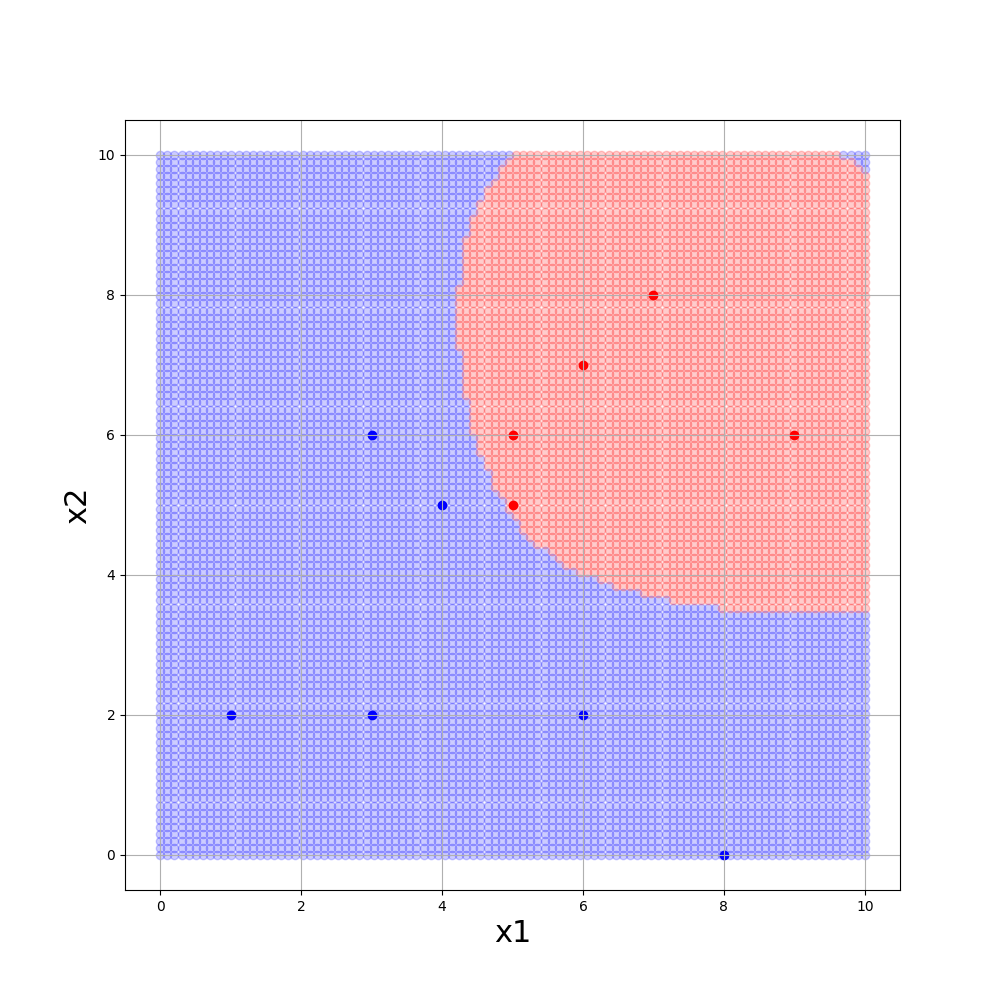
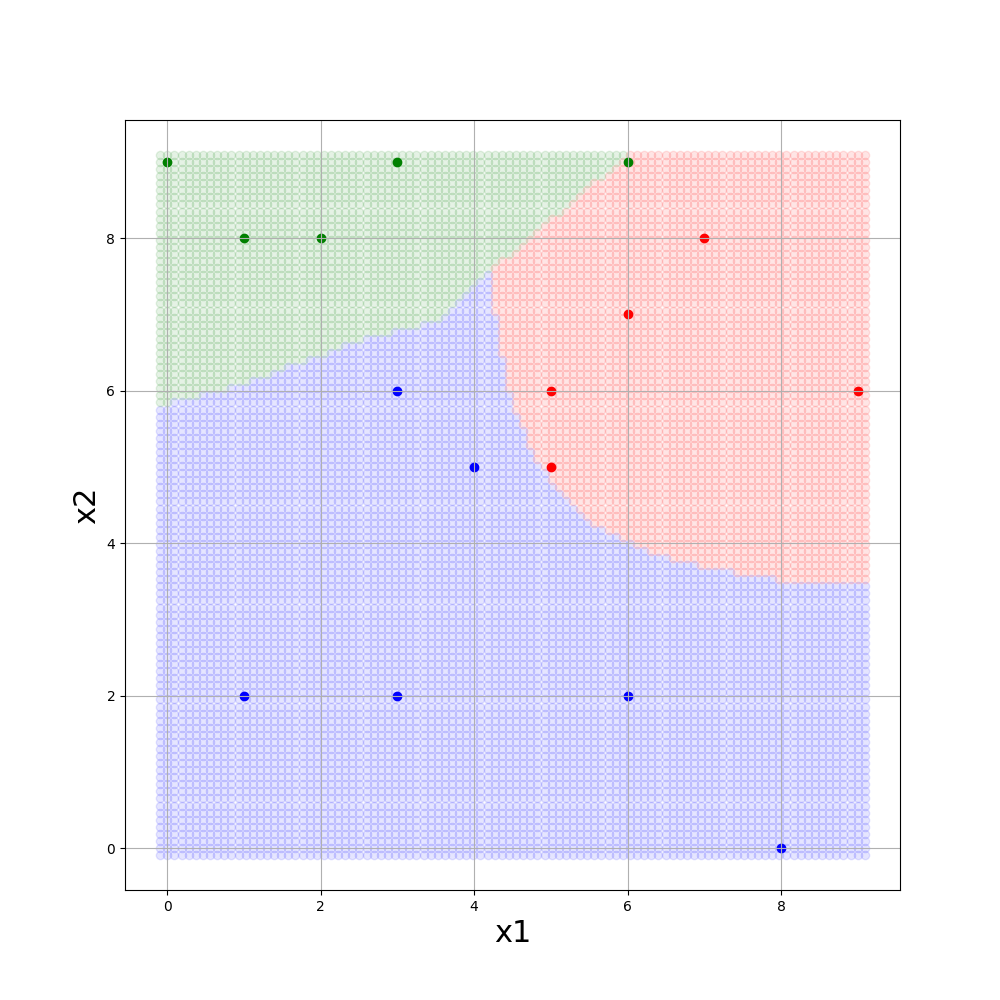
update

diff --git a/python/scikit/svm/ex4.py b/python/scikit/svm/ex4.py
@@ -6,97 +6,237 @@ import joblib
 import matplotlib.pyplot as plt
 from sklearn import metrics 
 
-# 入力データのファイルパス
-load_input_data_path = "/Users/panzer5/github/sample/python/scikit/svm/ex4_data/train.csv"
+class SVM():
+    # 学習
+    def train(self,
+        load_input_data_path,
+        save_trained_data_path,
+        name_x,
+        name_y,
+        gamma,
+        C,
+        kernel):
 
-# 学習済みモデルデータの出力先パス
-save_trained_data_path = '/Users/panzer5/github/sample/python/scikit/svm/ex4_data/train.learn'
+        # 学習用のデータを読み込み
+        train_data = pd.read_csv(load_input_data_path, sep=",")
 
-# テストデータのファイルパス
-load_test_data_path = "/Users/panzer5/github/sample/python/scikit/svm/ex4_data/test.csv"
+        # 説明変数：x1, x2
+        train_X = train_data.loc[:, name_x].values
 
-# グラフ出力先パス
-save_graph_img_path = '/Users/panzer5/github/sample/python/scikit/svm/ex4_data/graph.png'
+        # 目的変数：x3
+        train_y = train_data[name_y].values
 
-# グラフ画像のサイズ
-fig_size_x = 10
-fig_size_y = 10
+        # 学習（SVM）
+        clf = svm.SVC(gamma=gamma, C=C, kernel=kernel)
+        clf.fit(train_X, train_y)
+        joblib.dump(clf, save_trained_data_path)
 
-# 軸目盛りのフォントサイズ
-lim_font_size= 22
+    # 検証
+    def test(self,
+        load_trained_data_path,
+        load_test_data_path,
+        name_x,
+        name_y):
 
-# 学習用のデータを読み込み
-train_data = pd.read_csv(load_input_data_path, sep=",")
+        # 学習済ファイルのロード
+        clf = joblib.load(load_trained_data_path)
 
-# 説明変数：x1, x2
-train_X = train_data.loc[:, ['x1', 'x2']].values
+        # テスト用データの読み込み
+        test_data = pd.read_csv(load_test_data_path, sep=",")
 
-# 目的変数：x3
-train_y = train_data['x3'].values
+        # 説明変数：x1, x2
+        test_X = test_data.loc[:, name_x].values
 
-# 学習（SVM）
-clf = svm.SVC(gamma=0.5, C=1., kernel='rbf')
-clf.fit(train_X, train_y)
+        # 正解データ：x3
+        test_y = test_data[name_y].values
 
-# 学習結果を出力
-joblib.dump(clf, save_trained_data_path)
+        # 学習結果の検証（テスト用データx1, x2を入力）
+        predicted_y = clf.predict(test_X)
 
-# 学習済ファイルのロード
-clf2 = joblib.load(save_trained_data_path)
+        # 正解データと予測データを比較し、スコアを計算
+        score = metrics.accuracy_score(test_y, predicted_y)
 
-# テスト用データの読み込み
-test_data = pd.read_csv(load_test_data_path, sep=",")
+        # 検証結果の表示
+        print("Score：", score)
 
-# 説明変数：x1, x2
-test_X = test_data.loc[:, ['x1', 'x2']].values
+    # 予測
+    def predict(self,
+        load_trained_data_path,
+        load_input_data_path,
+        name_x,
+        name_y):
+        # 学習済ファイルのロード
+        clf = joblib.load(load_trained_data_path)
 
-# 正解データ：x3
-test_y = test_data['x3'].values
+        # テスト用データの読み込み
+        test_data = pd.read_csv(load_test_data_path, sep=",")
 
-# 学習結果の検証（テスト用データx1, x2を入力）
-predicted_y = clf2.predict(test_X)
+        # 説明変数：x1, x2
+        test_X = test_data.loc[:, name_x].values
 
-# 正解データと予測データを比較し、スコアを計算
-score = metrics.accuracy_score(test_y, predicted_y)
+        # 正解データ：x3
+        test_y = test_data[name_y].values
 
-# 検証結果の表示
-print("Score：", score)
+        # 学習結果の検証（テスト用データx1, x2を入力）
+        predicted_y = clf.predict(test_X)
+        
+        return predicted_y
 
-"""
-Score： 1.0
-"""
+    # 決定境界のプロット
+    def plot2d(self,
+        load_input_data_path,
+        load_trained_data_path,
+        save_graph_img_path,
+        class_datas, 
+        class_colors,
+        name_x,
+        name_y,
+        x1_name,
+        x2_name,
+        x1_0 = None,
+        x1_n = None,
+        x2_0 = None,
+        x2_n = None,
+        fig_size_x = 10,
+        fig_size_y = 10,
+        N_x1=100,
+        N_x2=100,
+        lim_font_size = 22,   
+    ):
 
-# 境界線プロット用の格子状データを生成
-x1 = np.linspace(0.0, 10.0, 100)
-x2 = np.linspace(0.0, 10.0, 100)
-X1, X2 = np.meshgrid(x1, x2)    
-plot_X = np.c_[X1.ravel(), X2.ravel()]
+        # 学習用のデータのロード
+        train_data = pd.read_csv(load_input_data_path, sep=",")
 
-plot_y = clf2.predict(plot_X)
+        # 学習済ファイルのロード
+        clf = joblib.load(load_trained_data_path)
 
-# グラフ設定
-plt.figure(figsize=(fig_size_x, fig_size_y))
-ax = plt.axes()
-plt.rcParams['font.family'] = 'Times New Roman'  # 全体のフォント
-plt.rcParams['font.size'] = lim_font_size  # 全体のフォント
-plt.rcParams['axes.linewidth'] = 1.0    # 軸の太さ
+        # 説明変数：x1, x2
+        train_X = train_data.loc[:, name_x].values
 
-# 格子データで散布図をプロットし、決定境界を描画（y=0:blue, y=1:red, y=2:green）
-plt.scatter(plot_X.T[0][plot_y == 0], plot_X.T[1][plot_y == 0], marker='o', color="blue", alpha=0.2)
-plt.scatter(plot_X.T[0][plot_y == 1], plot_X.T[1][plot_y == 1], marker='o', color="red", alpha=0.2)
-plt.scatter(plot_X.T[0][plot_y == 2], plot_X.T[1][plot_y == 2], marker='o', color="green", alpha=0.2)
+        # 目的変数：x3
+        train_y = train_data[name_y].values
 
-# 学習用データを散布図にプロット（y=0:blue, y=1:red, y=2:green）
-plt.scatter(train_X.T[0][train_y == 0], train_X.T[1][train_y == 0], marker='o', color="blue", alpha=1.0)
-plt.scatter(train_X.T[0][train_y == 1], train_X.T[1][train_y == 1], marker='o', color="red", alpha=1.0)
-plt.scatter(train_X.T[0][train_y == 2], train_X.T[1][train_y == 2], marker='o', color="green", alpha=1.0)
+        # 学習用データの説明変数の最大値、最小値を計算
+        x1_min = train_X.T[0].min()
+        x1_max = train_X.T[0].max()
+        x2_min = train_X.T[1].min()
+        x2_max = train_X.T[1].max()
 
-#plt.legend(loc=1)           # 凡例の表示（2：位置は第二象限）
-#plt.title('SVM TEST', fontsize=lim_font_size)   # グラフタイトル
-plt.xlabel('x1', fontsize=lim_font_size)            # x軸ラベル
-plt.ylabel('x2', fontsize=lim_font_size)            # y軸ラベル
+        # 説明変数の最大値、最小値から格子データの範囲を計算
+        if x1_0 == None:
+            x1_0 = x1_min - 0.01 * (x1_max - x1_min)
+        if x1_n == None:
+            x1_n = x1_max + 0.01 * (x1_max - x1_min)
 
-plt.grid()                              # グリッドの表示
-# plt.show()
-plt.savefig(save_graph_img_path)
-plt.close() # バッファ解放
+        if x2_0 == None:
+            x2_0 = x2_min - 0.01 * (x2_max - x2_min)
+
+        if x2_n == None:
+            x2_n = x2_max + 0.01 * (x2_max - x2_min)
+
+        # 境界線プロット用の格子状データを生成
+        x1 = np.linspace(x1_0, x1_n, N_x1)
+        x2 = np.linspace(x2_0, x2_n, N_x2)
+        X1, X2 = np.meshgrid(x1, x2)    
+        plot_X = np.c_[X1.ravel(), X2.ravel()]
+
+        # 格子データを学習済モデルに入力し、予測値を算出
+        plot_y = clf.predict(plot_X)
+
+        # グラフ設定
+        plt.figure(figsize=(fig_size_x, fig_size_y))
+        ax = plt.axes()
+        plt.rcParams['font.family'] = 'Times New Roman'  # 全体のフォント
+        plt.rcParams['font.size'] = lim_font_size  # 全体のフォント
+        plt.rcParams['axes.linewidth'] = 1.0    # 軸の太さ
+
+        for idx, (class_data, class_color) in enumerate(zip(class_datas, class_colors)):
+
+            # 格子データで散布図をプロットし、決定境界を描画（y=0:blue, y=1:red, y=2:green）
+            plt.scatter(plot_X.T[0][plot_y == class_data], plot_X.T[1][plot_y == class_data], marker='o', color=class_color, alpha=0.1)
+            plt.scatter(train_X.T[0][train_y == class_data], train_X.T[1][train_y == class_data], marker='o', color=class_color, alpha=1.0)
+
+        #plt.legend(loc=1)           # 凡例の表示（2：位置は第二象限）
+        #plt.title('SVM TEST', fontsize=lim_font_size)   # グラフタイトル
+        plt.xlabel(x1_name, fontsize=lim_font_size)            # x軸ラベル
+        plt.ylabel(x2_name, fontsize=lim_font_size)            # y軸ラベル
+
+        plt.grid()                              # グリッドの表示
+        # plt.show()
+        plt.savefig(save_graph_img_path)
+        plt.close() # バッファ解放
+
+def main():
+    # 入力データのファイルパス
+    LOAD_INPUT_DATA_PATH = "/Users/panzer5/github/sample/python/scikit/svm/ex4_data/train.csv"
+
+    # 学習済みモデルデータの出力先パス
+    SAVE_TRAINED_DATA_PATH = '/Users/panzer5/github/sample/python/scikit/svm/ex4_data/train.learn'
+
+    # テストデータのファイルパス
+    LOAD_TEST_DATA_PATH = "/Users/panzer5/github/sample/python/scikit/svm/ex4_data/test.csv"
+
+    # グラフ出力先パス
+    SAVE_GRAPH_IMG_PATH = '/Users/panzer5/github/sample/python/scikit/svm/ex4_data/graph.png'
+
+    # 説明変数の列名
+    NAME_X = ["x1", "x2"]
+
+    # 目的変数の列名
+    NAME_Y = "x3"
+
+    # SVMのパラメータ
+    GAMMA = 0.1
+    C = 1
+    KERNEL = "rbf"
+
+    # クラスのデータとプロット時に割り当てる色
+    CLASS_DATAS = [0, 1, 2]
+    CLASS_COLORS = ["blue", "red", "green"]
+
+    svm = SVM()
+
+    # 学習済みモデルの作成
+    svm.train(load_input_data_path = LOAD_INPUT_DATA_PATH,
+            save_trained_data_path = SAVE_TRAINED_DATA_PATH,
+            name_x = NAME_X,
+            name_y = NAME_Y,
+            gamma = GAMMA,
+            C = C,
+            kernel = KERNEL)
+
+    # 学習済みモデルの検証
+    svm.test(
+        load_trained_data_path = SAVE_TRAINED_DATA_PATH,
+        load_test_data_path = LOAD_TEST_DATA_PATH,
+        name_x = NAME_X,
+        name_y = NAME_Y)
+
+    # 未知データを入力して予測
+    """
+    svm.test(
+        load_trained_data_path = SAVE_TRAINED_DATA_PATH,
+        load_input_data_path = LOAD_INPUT_DATA_PATH,
+        name_x = NAME_X,
+        name_y = NAME_Y)
+    """
+
+    # グラフにプロットして決定境界を可視化
+    svm.plot2d(
+        load_input_data_path = LOAD_INPUT_DATA_PATH,
+        load_trained_data_path = SAVE_TRAINED_DATA_PATH,
+        save_graph_img_path = SAVE_GRAPH_IMG_PATH,
+        class_datas = CLASS_DATAS, 
+        class_colors = CLASS_COLORS,
+        name_x = NAME_X,
+        name_y = NAME_Y,
+        x1_name = "x1",
+        x2_name = "x2",
+        fig_size_x = 10,
+        fig_size_y = 10,
+        lim_font_size = 22,   
+    )
+
+
+if __name__ == "__main__":
+    main()

diff --git a/python/scikit/svm/ex1.py b/python/scikit/svm/ex1.py
@@ -5,7 +5,7 @@ from sklearn import svm
 import joblib
 
 # 学習用のデータを読み込み
-train_data = pd.read_csv("/Users/panzer5/github/sample/python/scikit/svm/data/train.csv", sep=",")
+train_data = pd.read_csv("/Users/panzer5/github/sample/python/scikit/svm/ex1_data/train.csv", sep=",")
 
 # 説明変数：x1, x2
 train_X = train_data.loc[:, ['x1', 'x2']].values
@@ -18,13 +18,13 @@ clf = svm.SVC(gamma=0.001, C=100.)
 clf.fit(train_X, train_y)
 
 # 学習結果を出力
-joblib.dump(clf, '/Users/panzer5/github/sample/python/scikit/svm/data/train.learn')
+joblib.dump(clf, '/Users/panzer5/github/sample/python/scikit/svm/ex1_data/train.learn')
 
 # 学習済ファイルのロード
-clf2 = joblib.load('/Users/panzer5/github/sample/python/scikit/svm/data/train.learn')
+clf2 = joblib.load('/Users/panzer5/github/sample/python/scikit/svm/ex1_data/train.learn')
 
 # テスト用データの読み込み
-test_data = pd.read_csv("/Users/panzer5/github/sample/python/scikit/svm/data/test.csv", sep=",")
+test_data = pd.read_csv("/Users/panzer5/github/sample/python/scikit/svm/ex1_data/test.csv", sep=",")
 
 # 学習結果の検証（テスト用データx1, x2を入力）
 test_X = test_data.loc[:, ['x1', 'x2']].values

diff --git a/python/scikit/svm/ex3.py b/python/scikit/svm/ex3.py
@@ -7,16 +7,16 @@ import matplotlib.pyplot as plt
 from sklearn import metrics 
 
 # 入力データのファイルパス
-load_input_data_path = "/Users/panzer5/github/sample/python/scikit/svm/data/train2.csv"
+load_input_data_path = "/Users/panzer5/github/sample/python/scikit/svm/ex3_data/train.csv"
 
 # 学習済みモデルデータの出力先パス
-save_trained_data_path = '/Users/panzer5/github/sample/python/scikit/svm/data/train2.learn'
+save_trained_data_path = '/Users/panzer5/github/sample/python/scikit/svm/ex3_data/train.learn'
 
 # テストデータのファイルパス
-load_test_data_path = "/Users/panzer5/github/sample/python/scikit/svm/data/test2.csv"
+load_test_data_path = "/Users/panzer5/github/sample/python/scikit/svm/ex3_data/test.csv"
 
 # グラフ出力先パス
-save_graph_img_path = '/Users/panzer5/github/sample/python/scikit/svm/data/graph4.png'
+save_graph_img_path = '/Users/panzer5/github/sample/python/scikit/svm/ex3_data/graph.png'
 
 # グラフ画像のサイズ
 fig_size_x = 10

diff --git a/python/scikit/svm/ex2.py b/python/scikit/svm/ex2.py
@@ -6,16 +6,16 @@ import joblib
 import matplotlib.pyplot as plt
 
 # 入力データのファイルパス
-load_input_data_path = "/Users/panzer5/github/sample/python/scikit/svm/data/train.csv"
+load_input_data_path = "/Users/panzer5/github/sample/python/scikit/svm/ex2_data/train.csv"
 
 # 学習済みモデルデータの出力先パス
-save_trained_data_path = '/Users/panzer5/github/sample/python/scikit/svm/data/train.learn'
+save_trained_data_path = '/Users/panzer5/github/sample/python/scikit/svm/ex2_data/train.learn'
 
 # テストデータのファイルパス
-load_test_data_path = "/Users/panzer5/github/sample/python/scikit/svm/data/test.csv"
+load_test_data_path = "/Users/panzer5/github/sample/python/scikit/svm/ex2_data/test.csv"
 
 # グラフ出力先パス
-save_graph_img_path = '/Users/panzer5/github/sample/python/scikit/svm/data/graph3.png'
+save_graph_img_path = '/Users/panzer5/github/sample/python/scikit/svm/ex2_data/graph3.png'
 
 # グラフ画像のサイズ
 fig_size_x = 10
